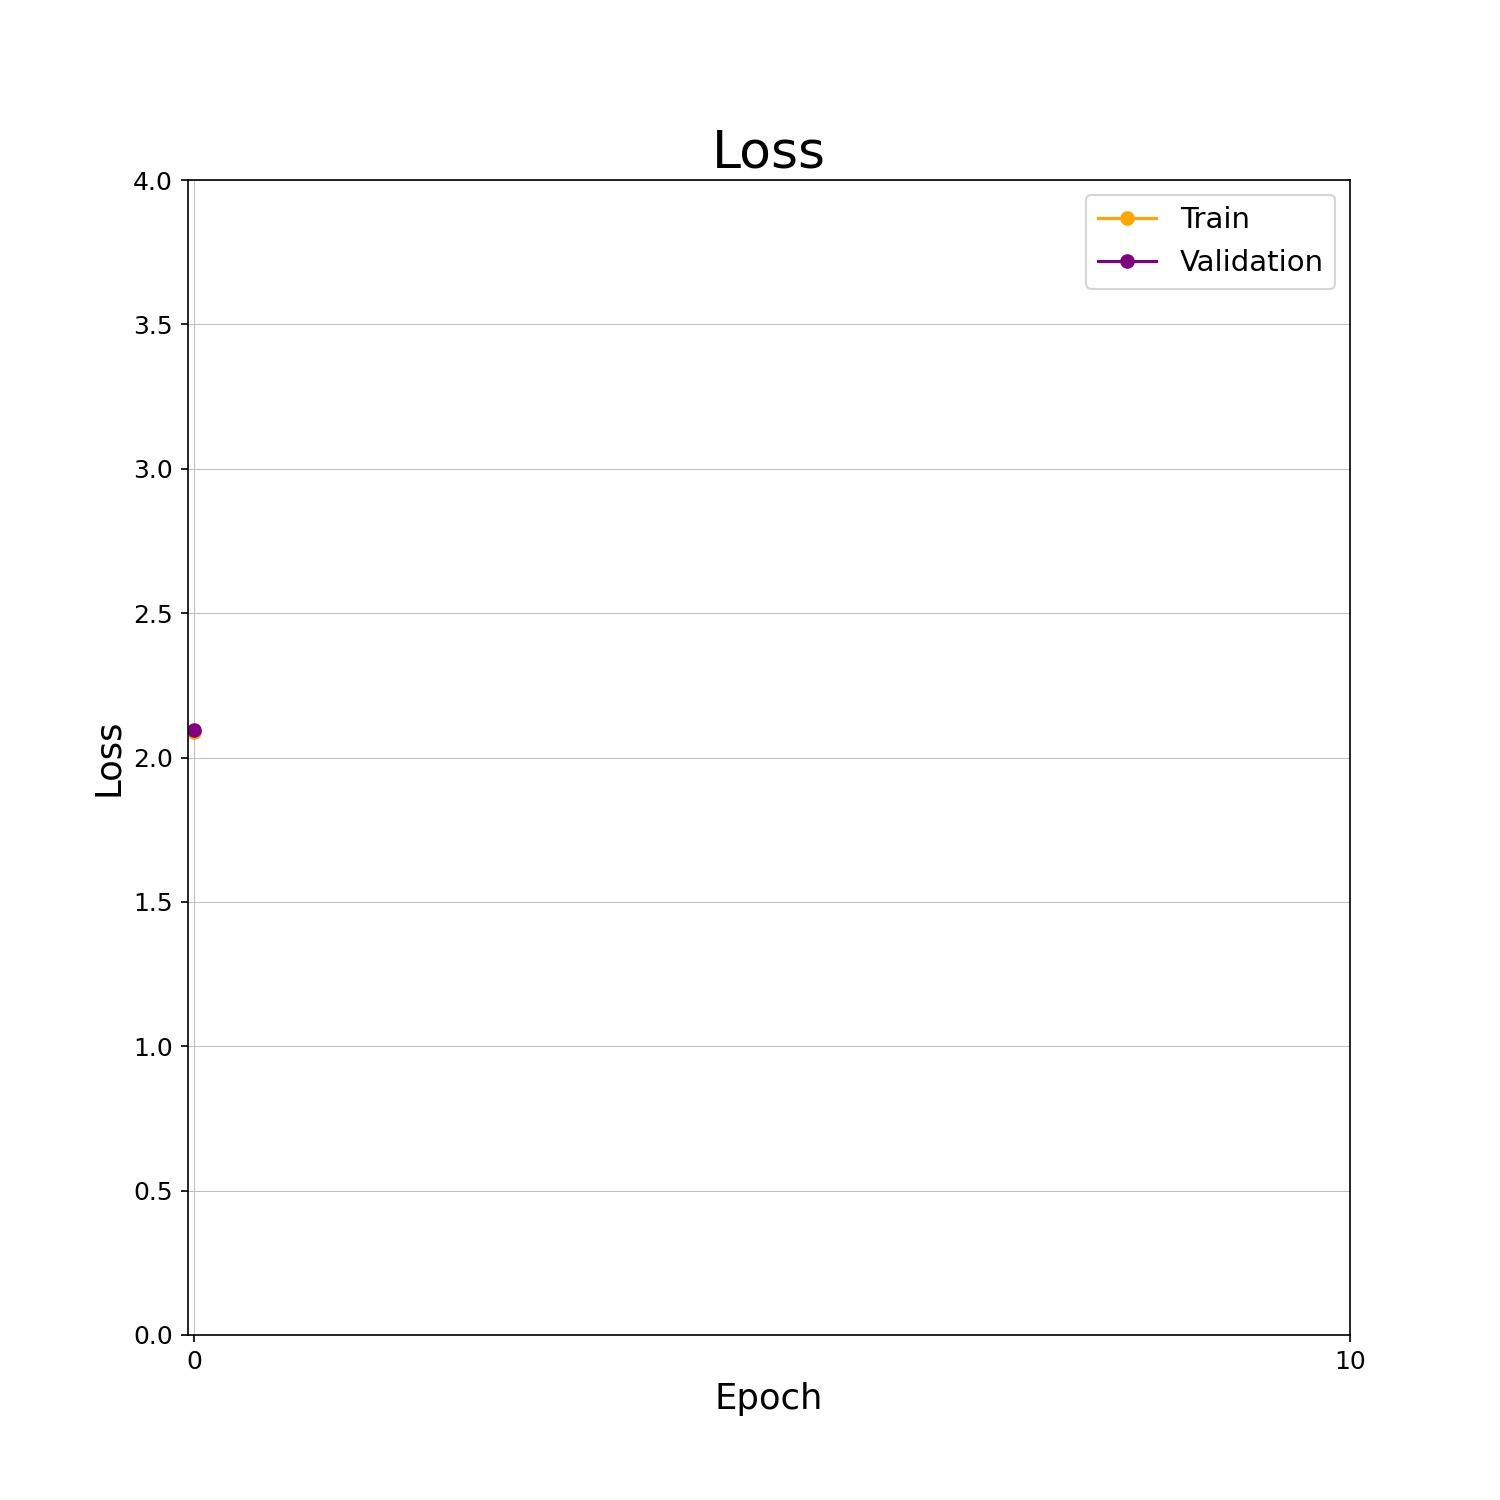
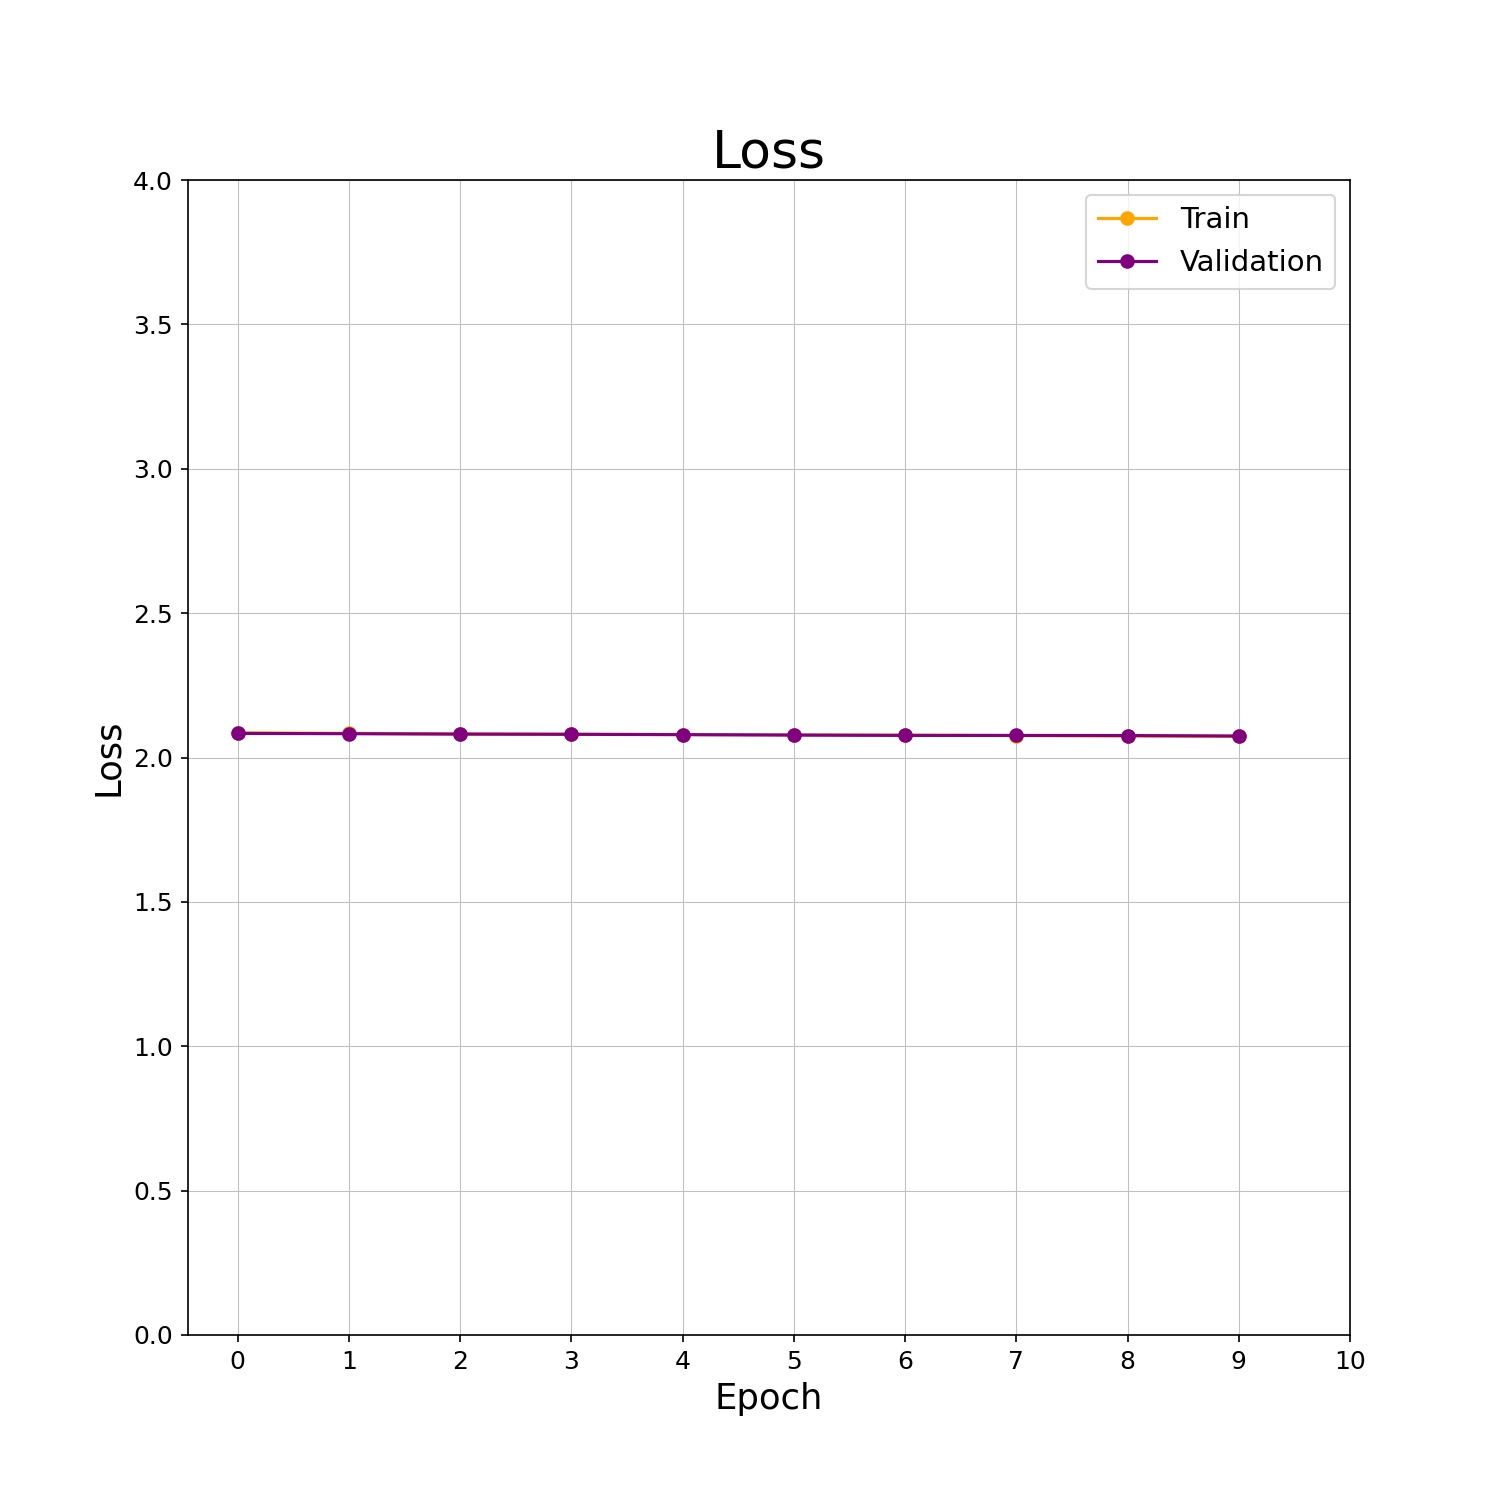
Loss fixed and torchsummary

diff --git a/Week 1/main.py b/Week 1/main.py
@@ -20,7 +20,7 @@ device = torch.device('cuda' if torch.cuda.is_available() else 'cpu')
 
 ### HYPERPARAMETERS
 train_set = 'MIT_small_train_1'
-root_dir = '../datasets/' + train_set
+root_dir = './MCV-M5-Team05/datasets/' + train_set
 
 train_data_dir= root_dir + '/train'
 val_data_dir= root_dir + '/test'
@@ -188,7 +188,7 @@ print('Finished Training')
 
 print(f'Accuracy of the network on the test images: {val_accuracies[-1]} %')
 
-offset = 10
+offset = 1
 plt.figure(figsize=(10,10),dpi=150)
 plt.plot(np.arange(0,epochs,offset),train_accuracies[::offset], marker='o', color='orange',label='Train')
 plt.plot(np.arange(0,epochs,offset),val_accuracies[::offset], marker='o', color='purple',label='Validation')
